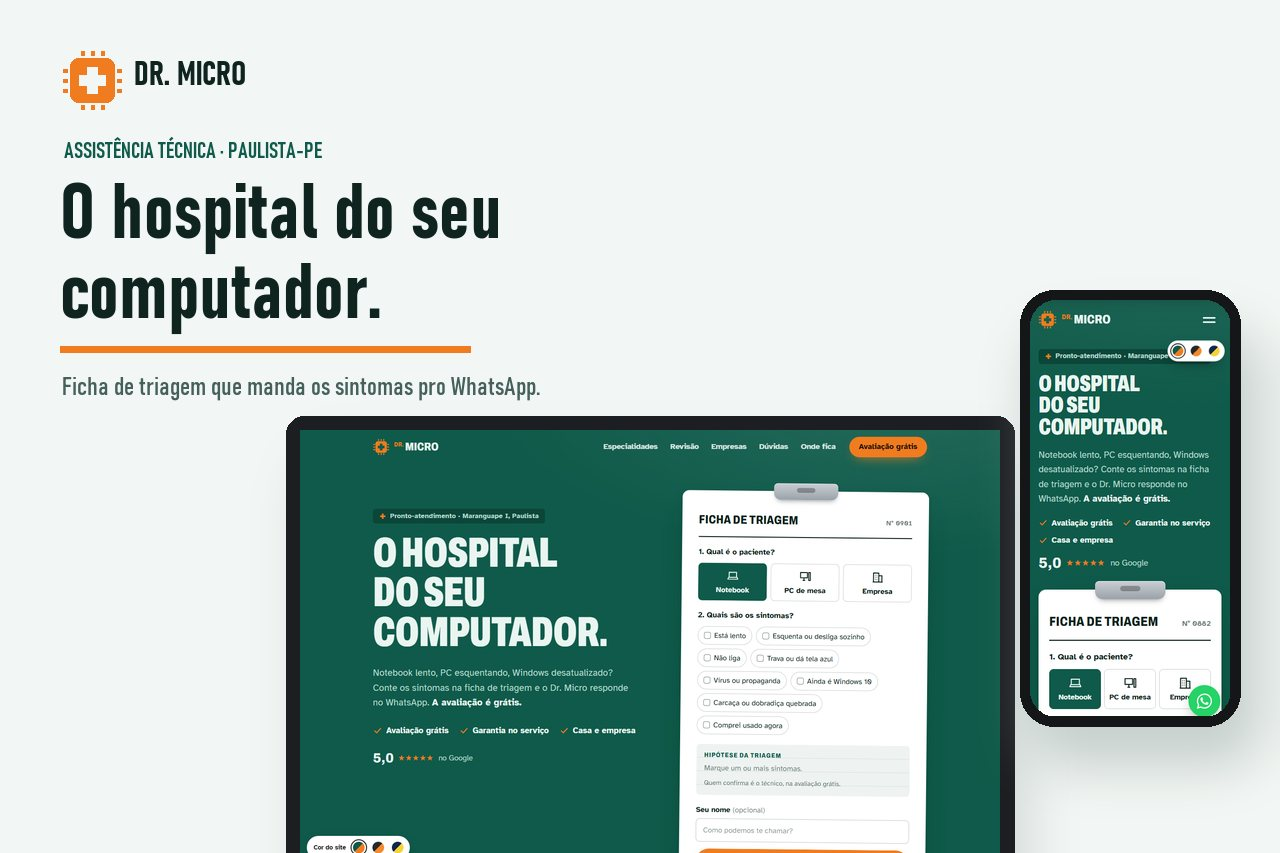
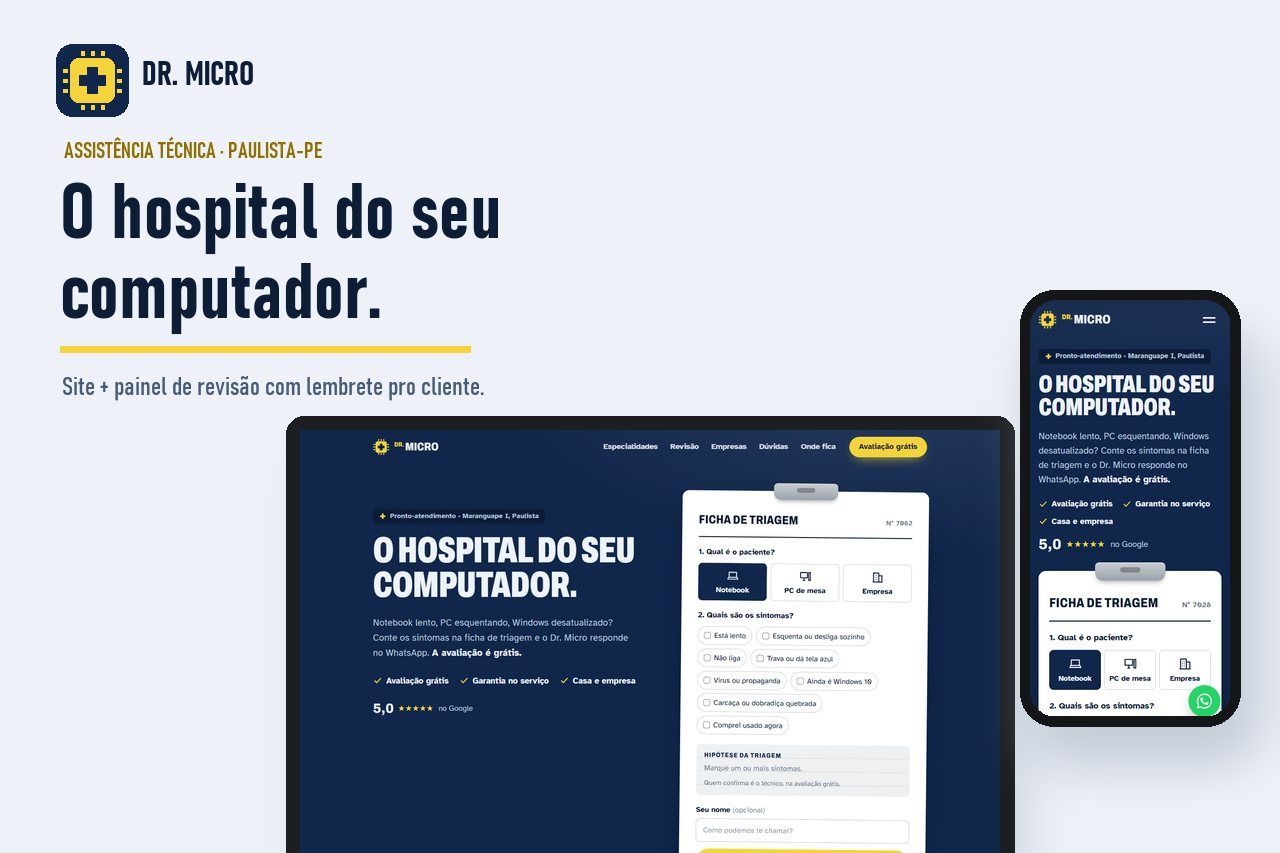
Portfólio: Dr. Micro com link, capa azul e selo Em desenvolvimento

diff --git a/index.html b/index.html
@@ -580,18 +580,18 @@
         </div>
         <div class="project-card reveal" data-categoria="servicos">
           <div class="project-image">
-            <img src="assets/images/dr-micro-1280.jpg?v=1" srcset="assets/images/dr-micro-720.jpg?v=1 720w, assets/images/dr-micro-1280.jpg?v=1 1280w" sizes="(max-width: 640px) 90vw, 360px" alt="Site Dr. Micro no computador e no celular" loading="lazy" onerror="this.onerror=null;this.src='assets/images/placeholder.svg';">
+            <img src="assets/images/dr-micro-1280.jpg?v=2" srcset="assets/images/dr-micro-720.jpg?v=2 720w, assets/images/dr-micro-1280.jpg?v=2 1280w" sizes="(max-width: 640px) 90vw, 360px" alt="Site Dr. Micro no computador e no celular" loading="lazy" onerror="this.onerror=null;this.src='assets/images/placeholder.svg';">
             <div class="project-image-overlay"></div>
             <span class="project-badge">Em desenvolvimento</span>
           </div>
           <div class="project-content">
             <h3 class="project-title">Dr. Micro</h3>
             <div class="project-highlight"><i class="fas fa-circle-check"></i> Cliente marca os sintomas do computador e a ficha vai pro WhatsApp</div>
-            <p class="project-desc">Site para assistência técnica de computador e notebook em Paulista-PE: ficha de triagem, especialidades, revisão de primeira e manutenção para empresas.</p>
+            <p class="project-desc">Site e sistema para assistência técnica de computador em Paulista-PE: ficha de triagem pelo WhatsApp, painel do balcão e ficha de cada cliente com lembrete de revisão.</p>
             <div class="project-links">
-              <span class="project-link is-disabled" aria-disabled="true">
-                <i class="fas fa-hammer"></i> Em desenvolvimento
-              </span>
+              <a href="https://dr-micro-site.pages.dev/" class="project-link primary" target="_blank" rel="noopener noreferrer">
+                <i class="fas fa-external-link-alt"></i> Ver Site
+              </a>
             </div>
           </div>
         </div>
